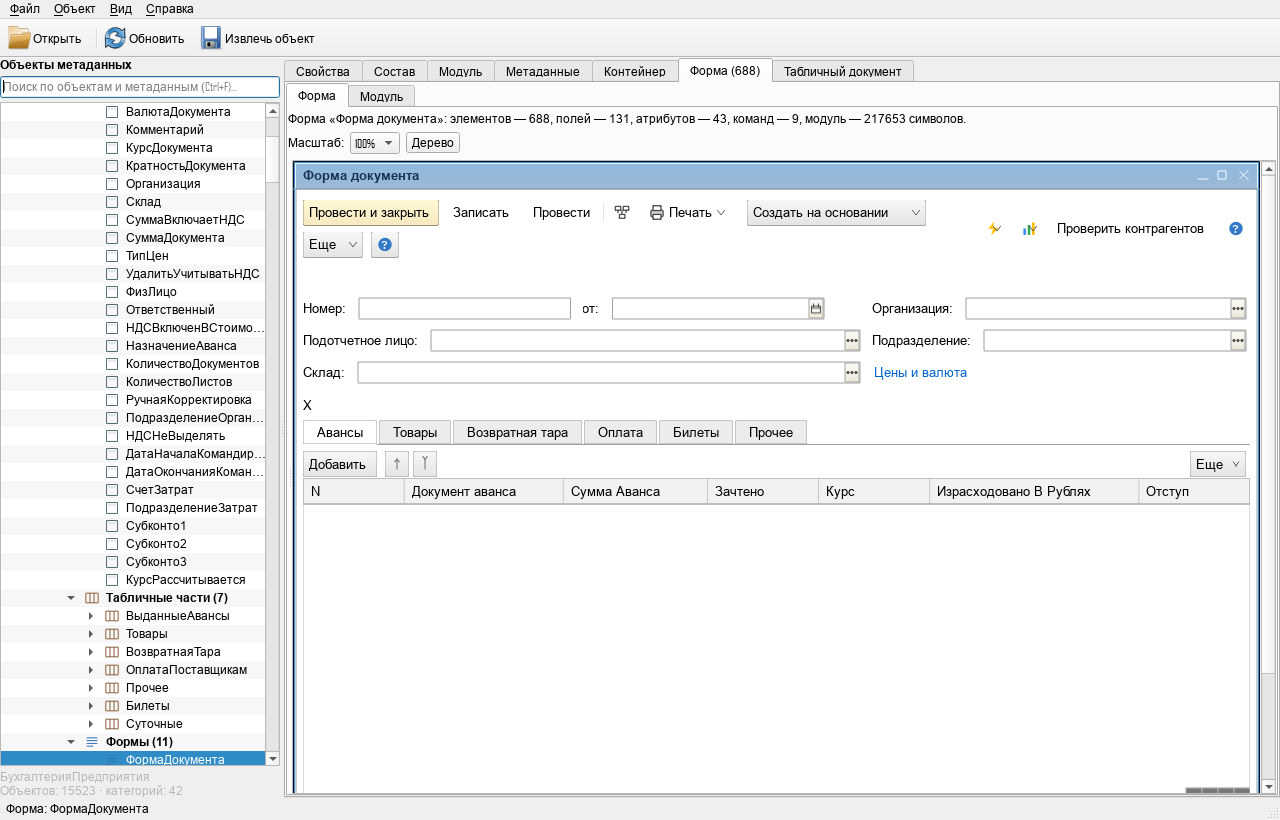
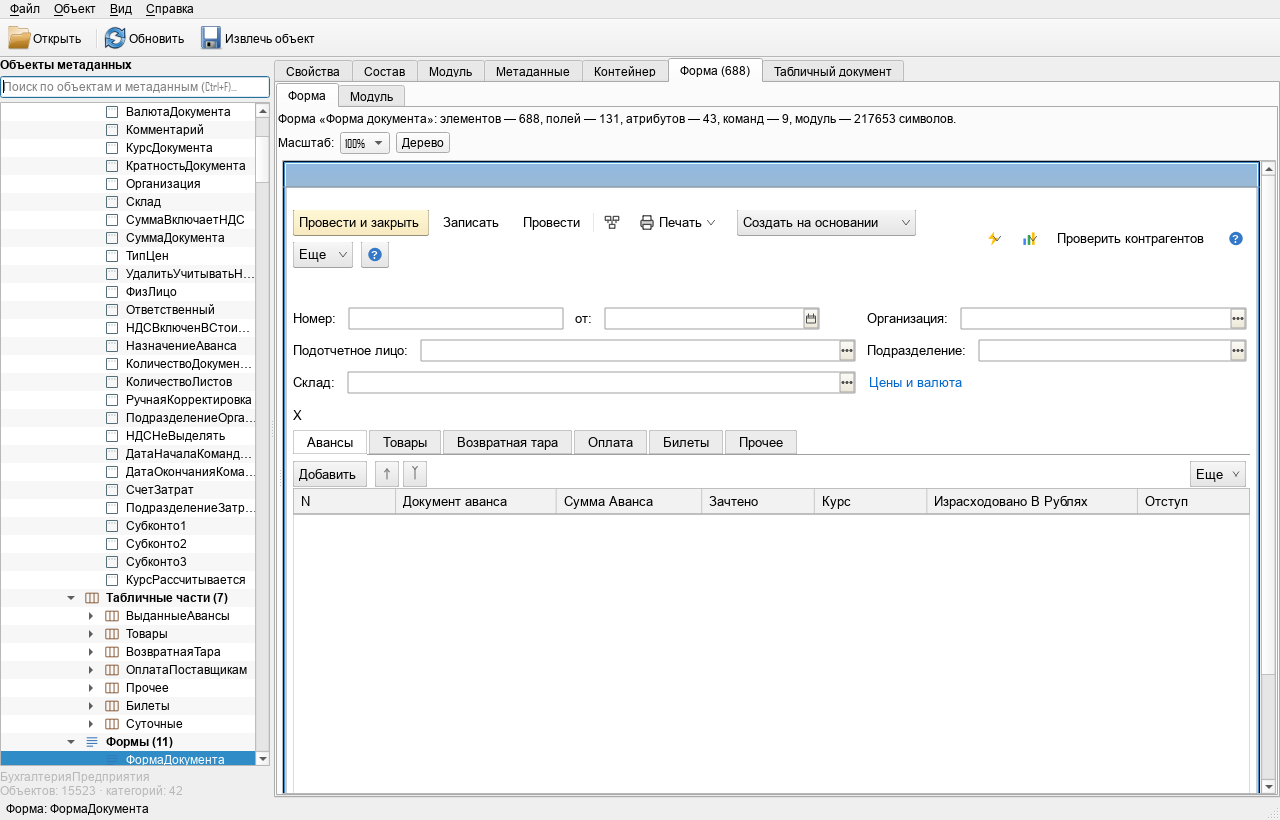
fix(forms): рамка окна и отступы как в конфигураторе

Changed region(s): [[0.1875, 0.061, 0.9688, 0.9756], [0.75, 0.2744, 0.9688, 0.3049], [0.9375, 0.9451, 0.9688, 0.9756]]

diff --git a/src/gui/FormView.cpp b/src/gui/FormView.cpp
@@ -986,7 +986,7 @@ private:
 
             // Две строки быстрого отбора делят ширину поровну, как в
             // конфигураторе; иначе первое поле съедает почти всю строку.
-            if (!runtimeCommands && row.size() == 2) {
+            if (row.size() == 2) {
                 bool bothFilters = true;
                 for (int index : row) {
                     const v8reader::FormItem *item = visible.at(index);
@@ -1540,9 +1540,9 @@ protected:
 
         const double logicalW = width() / m_scale;
         const double logicalH = height() / m_scale;
-        const double titleHeight = 28.0;
+        const double titleHeight = 26.0;
 
-        // Рамка и заголовок окна конфигуратора.
+        // Рамка и пустая синяя полоса заголовка окна конфигуратора.
         QLinearGradient titleGradient(0.0, 0.0, 0.0, titleHeight);
         titleGradient.setColorAt(0.0, QColor(143, 185, 225));
         titleGradient.setColorAt(1.0, QColor(155, 185, 213));
@@ -1556,26 +1556,6 @@ protected:
         painter.drawRect(QRectF(1.5, 1.5, logicalW - 3.0, logicalH - 3.0));
         painter.setPen(QColor(226, 255, 255));
         painter.drawRect(QRectF(2.5, 2.5, logicalW - 5.0, logicalH - 5.0));
-
-        QFont windowFont = formFont();
-        windowFont.setBold(true);
-        painter.setFont(windowFont);
-        painter.setPen(QColor(23, 52, 86));
-        const QString windowTitle = !m_document ? QStringLiteral("Форма")
-            : (!m_document->synonym.isEmpty() ? m_document->synonym
-                                              : m_document->name);
-        painter.drawText(QRectF(10.0, 1.0, logicalW - 90.0, titleHeight - 2.0),
-                         Qt::AlignLeft | Qt::AlignVCenter, windowTitle);
-        // Кнопки окна.
-        painter.setPen(QColor(240, 250, 255));
-        const double buttonY = titleHeight / 2.0;
-        painter.drawLine(QPointF(logicalW - 62.0, buttonY + 4.0),
-                         QPointF(logicalW - 52.0, buttonY + 4.0));
-        painter.drawRect(QRectF(logicalW - 42.0, buttonY - 4.0, 8.0, 8.0));
-        painter.drawLine(QPointF(logicalW - 20.0, buttonY - 4.0),
-                         QPointF(logicalW - 12.0, buttonY + 4.0));
-        painter.drawLine(QPointF(logicalW - 20.0, buttonY + 4.0),
-                         QPointF(logicalW - 12.0, buttonY - 4.0));
         painter.setPen(QColor(120, 150, 180));
         painter.drawLine(QPointF(0.0, titleHeight), QPointF(logicalW, titleHeight));
 
@@ -1599,7 +1579,7 @@ protected:
         // Тонкая рамка клиентской области под заголовком.
         painter.setPen(QPen(QColor(150, 160, 170), 1.0));
         painter.setBrush(Qt::NoBrush);
-        painter.drawRect(QRectF(3.0, 28.0, logicalW - 6.0, logicalH - 31.0));
+        painter.drawRect(QRectF(3.0, 26.0, logicalW - 6.0, logicalH - 29.0));
     }
 
 private:
@@ -1633,9 +1613,9 @@ private:
         // а не оставлять пустую полосу под собой.
         const double viewportLogical = viewportHeight > 0.0
             ? viewportHeight / m_scale : 0.0;
-        const double titleBarHeight = 28.0;
+        const double titleBarHeight = 26.0;
         const double targetContentHeight = std::max(0.0,
-            viewportLogical - margin * 2.0 - titleBarHeight - 2.0);
+            viewportLogical - titleBarHeight - 44.0);
 
         LayoutEngine engine(*m_document, contentWidth);
         double contentHeight = 0.0;
@@ -1665,7 +1645,7 @@ private:
         }
 
         for (PreviewControl &control : controls)
-            control.rect.translate(margin, margin + titleBarHeight);
+            control.rect.translate(margin, titleBarHeight + 22.0);
         m_controls = controls;
         m_contentHeight = contentHeight;
         double logicalHeight = qBound(280.0,

diff --git a/src/gui/MainWindow.cpp b/src/gui/MainWindow.cpp
@@ -190,7 +190,7 @@ void MainWindow::setupUi()
     splitter->addWidget(m_tabs);
     splitter->setStretchFactor(0, 0);
     splitter->setStretchFactor(1, 1);
-    splitter->setSizes({280, 1000});
+    splitter->setSizes({270, 1010});
 
     setCentralWidget(splitter);
 

diff --git a/CHANGELOG.md b/CHANGELOG.md
@@ -97,8 +97,8 @@
 - Форма списка открывается на 100%, дерево элементов скрыто по умолчанию
   (возвращается кнопкой «Дерево»), левая панель уже — предпросмотр занимает
   почти всё окно.
-- У предпросмотра появилась синяя рамка окна конфигуратора с заголовком
-  и кнопками, быстрые отборы делят строку поровну.
+- У предпросмотра появилась синяя рамка окна конфигуратора с пустой полосой
+  заголовка, как на эталоне; быстрые отборы делят строку поровну.
 - В формах элементов справочников добавлены стандартные команды
   «Записать и закрыть» и «Записать»; командная панель таких форм
   определяется и без отдельной группы кнопок.

diff --git a/README.md b/README.md
@@ -108,10 +108,10 @@
 
 ![Форма списка](docs/screenshot-form.png)
 
-Вкладка «Форма» на примере формы списка «Авансовый отчет»: окно с заголовком,
-быстрые отборы, плоская командная панель в стиле 1С с жёлтой кнопкой
-«Создать», все колонки формы, как в конфигураторе, строка отборов и
-масштаб 50–150%.
+Вкладка «Форма» на примере формы списка «Авансовый отчет»: окно
+конфигуратора с синей рамкой, быстрые отборы, плоская командная панель
+в стиле 1С с жёлтой кнопкой «Создать», все колонки формы, как в
+конфигураторе, строка отборов и масштаб 50–150%.
 
 ![Форма документа](docs/screenshot-form-document.png)
 
